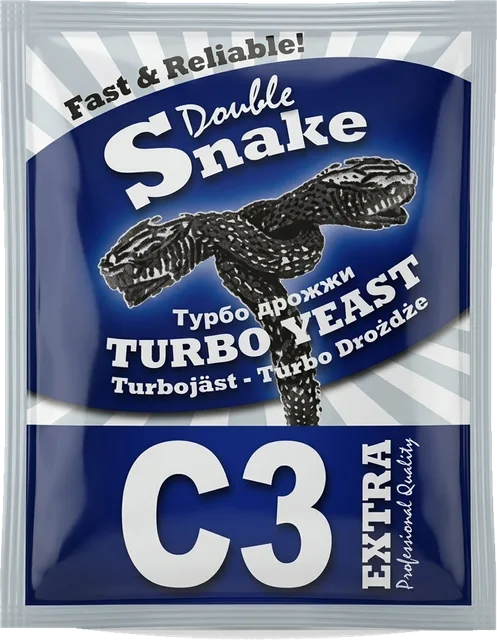
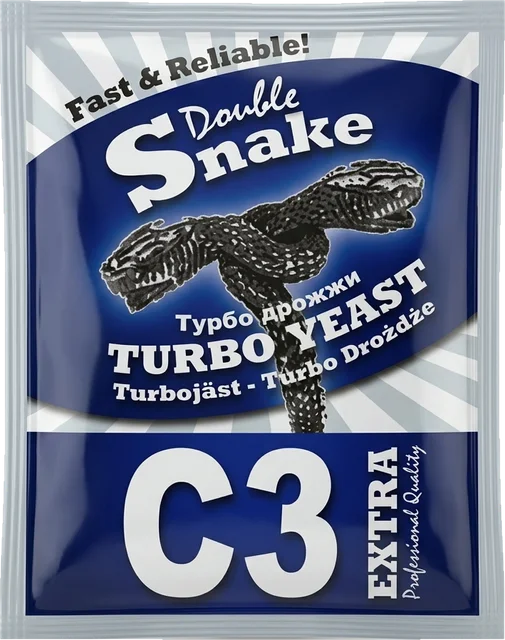
C3: низ обрезан по серебристой кромке, без светлой полосы тени

diff --git a/index.html b/index.html
@@ -145,7 +145,7 @@
     <div class="sec-head"><h2 class="h2">Другие бренды компании</h2></div>
     <div class="pb-grid">
       <a class="pb-card pb-paper" href="https://xn--80achgugeq9a.xn--p1ai/" target="_blank" rel="noopener" aria-label="Дабл Снейк — даблснейк.рф">
-        <span class="pb-fan" aria-hidden="true"><img class="f1" src="img/ds-c3.webp" width="640" height="640" alt=""><img class="f2" src="img/ds-c48.webp" width="640" height="640" alt=""><img class="f3" src="img/ds-c100.webp" width="640" height="640" alt=""></span>
+        <span class="pb-fan" aria-hidden="true"><img class="f1" src="img/ds-c3.webp" width="505" height="640" alt=""><img class="f2" src="img/ds-c48.webp" width="640" height="640" alt=""><img class="f3" src="img/ds-c100.webp" width="640" height="640" alt=""></span>
         <span class="pb-text"><img class="pb-logo pb-logo-ds" src="img/logo-word.svg" width="887" height="444" alt="Дабл Снейк"><span class="pb-cap">C3 · C48 · C100 · Vodka · Whisky · Фрукты</span><span class="pb-go">даблснейк.рф <svg class="i" viewBox="0 0 24 24" aria-hidden="true"><path d="M7 17 17 7M9 7h8v8"/></svg></span></span>
       </a>
       <button type="button" class="pb-card pb-dark" data-soon aria-label="Double Distill — сайт в разработке">
